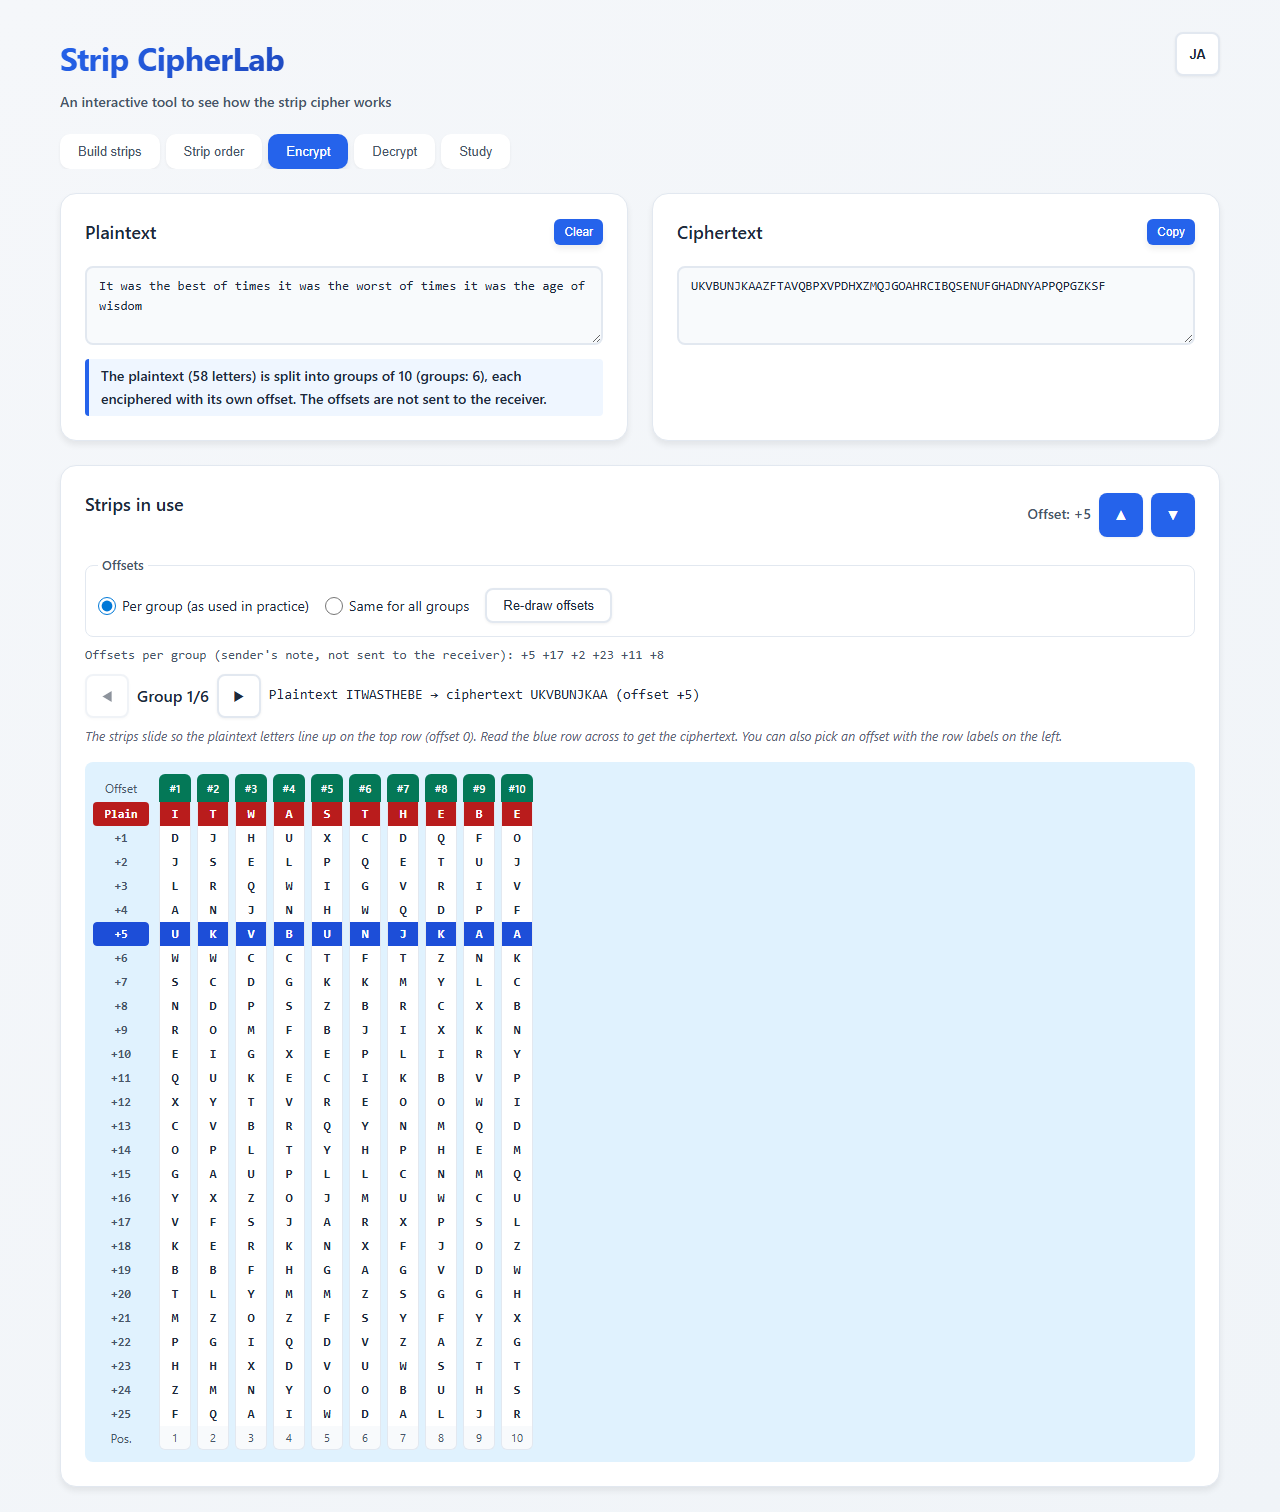
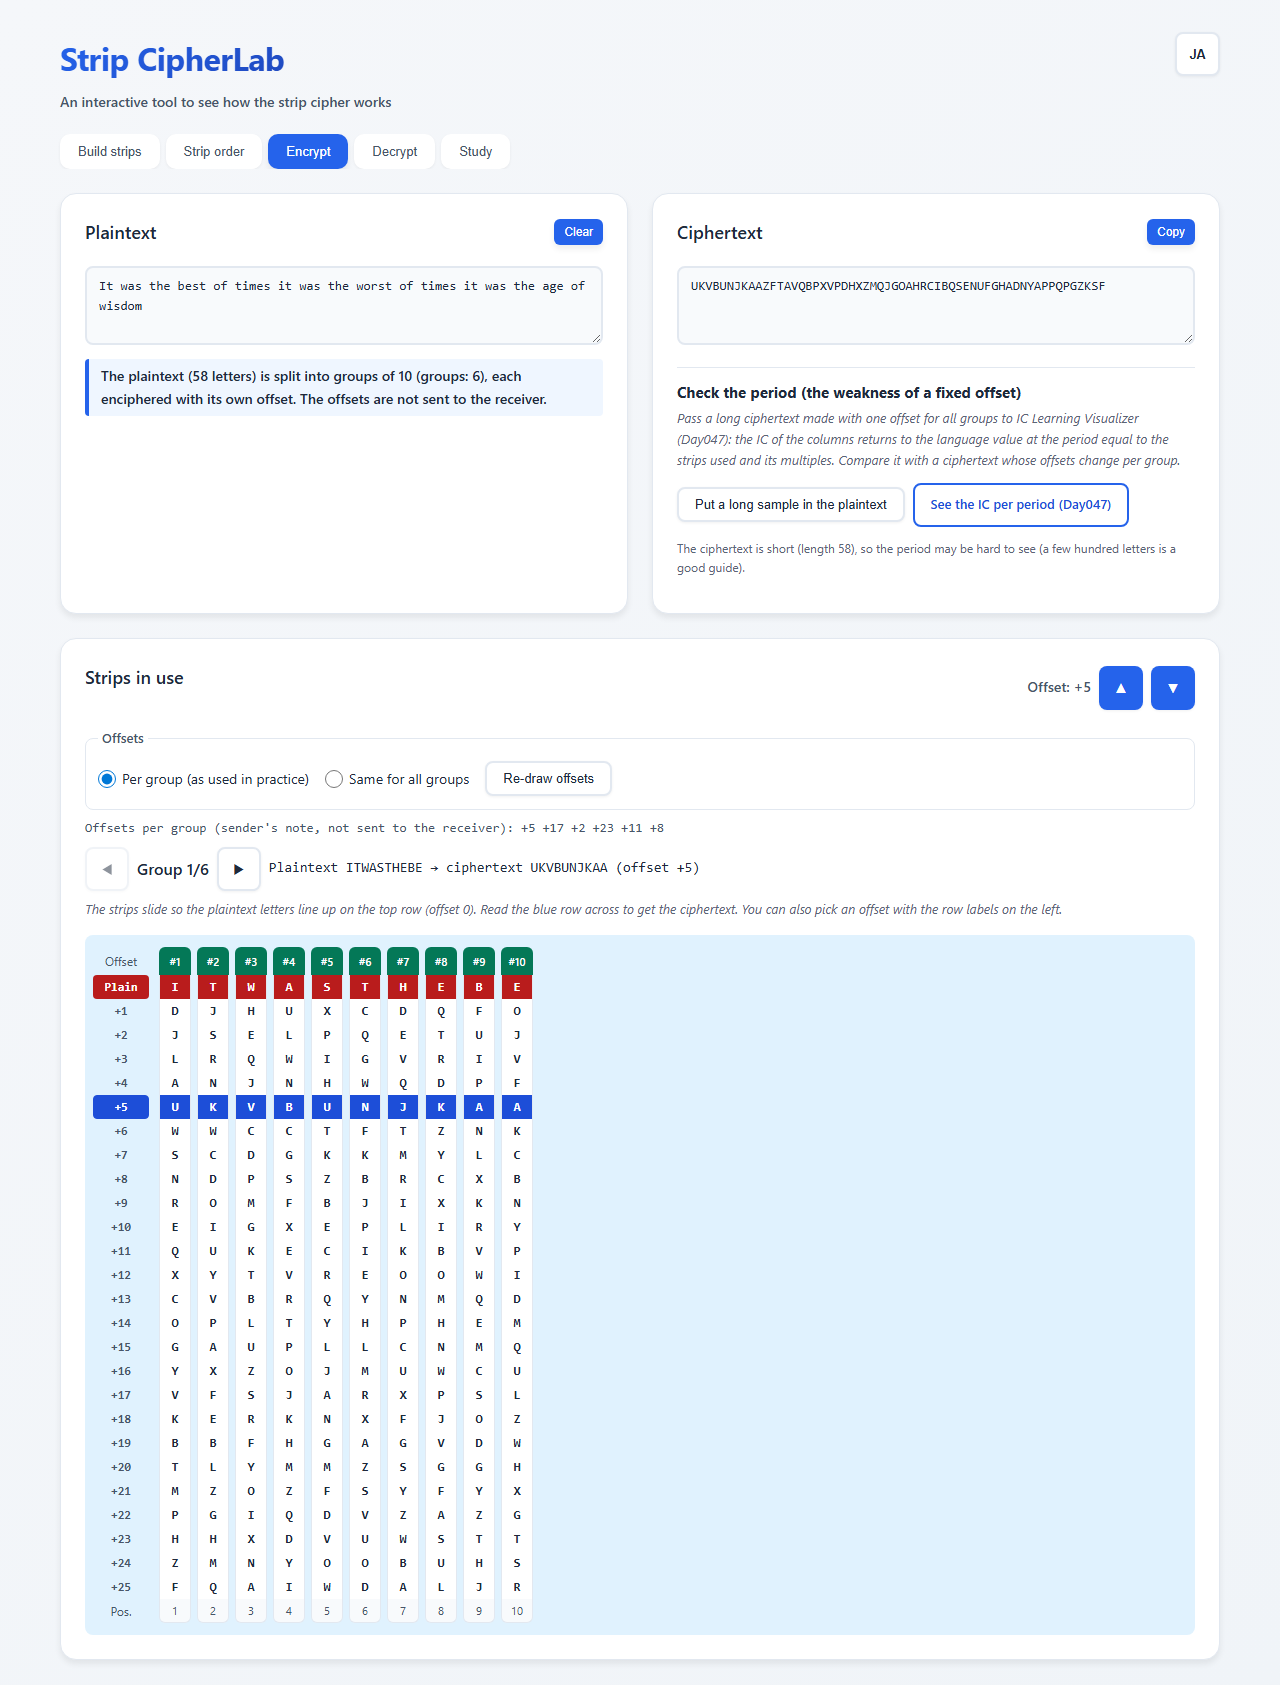
第3弾 段階2: README（日英）に段差を固定したときの弱さの節・スクリーンショット
- 見本の長文・合言葉STRIP・10本・段差+7 の周期ごとのIC（周期10・20は平文と同じ値）と、
  Day047 の候補が「5・10・15」と出ること、群ごとの段差では候補が出ないことを記載
- 表の値と、群ごとの段差でしきい値に届かないことをテストで再計算（57件）

diff --git a/test/readme.test.js b/test/readme.test.js
@@ -231,3 +231,49 @@ test("英語版: 計算例・装着順の例・評価の表を計算部と tools
   assert.equal(rowsF.length, Object.keys(f).length);
   for (const [, r, len, v] of rowsF) assert.equal(v, f[`${r}/${len}`].toFixed(1));
 });
+
+// 周期 k で分けた列の IC の平均（Day047 IC Learning Visualizer と同じ定義。2文字以上の列だけで平均する）
+function periodicIC(text, k) {
+  let sum = 0;
+  let cols = 0;
+  for (let i = 0; i < k; i++) {
+    let col = "";
+    for (let j = i; j < text.length; j += k) col += text[j];
+    if (col.length < 2) continue;
+    const counts = {};
+    for (const ch of col) counts[ch] = (counts[ch] || 0) + 1;
+    sum += Object.values(counts).reduce((a, n) => a + n * (n - 1), 0) / (col.length * (col.length - 1));
+    cols++;
+  }
+  return sum / cols;
+}
+
+test("段差を固定したときの弱さ: 周期ごとのICの表（日英）を見本の長文で再計算する", () => {
+  const script = read("script.js");
+  const sample = Function(`return ${script.match(/const SAMPLE_PARAGRAPH = ([\s\S]*?);\n/)[1]};`)();
+  const plain = C.lettersOnly(sample);
+  assert.equal(plain.length, 475);
+  assert.match(script, /const IC_MAX_PERIOD = 20;/);
+  assert.match(script, /const IC_MAX_TEXT = 10000;/);
+  const strips = C.passphraseStrips("STRIP", 10);
+  const order = C.firstOrder(10);
+  const cipher = C.encrypt(plain, strips, order, 7);
+  for (const [text, re] of [[readme, /^\| (\d+)(?:（分けない）)? \| (0\.\d{4}) \| (0\.\d{4}) \|$/gm],
+    [readmeEn, /^\| (\d+)(?: \(not split\))? \| (0\.\d{4}) \| (0\.\d{4}) \|$/gm]]) {
+    const rows = [...text.matchAll(re)];
+    assert.equal(rows.length, 5);
+    for (const [, k, c, p] of rows) {
+      assert.equal(periodicIC(cipher, Number(k)).toFixed(4), c, `cipher ${k}`);
+      assert.equal(periodicIC(plain, Number(k)).toFixed(4), p, `plain ${k}`);
+    }
+  }
+  // 周期10・20は平文とまったく同じ（列ごとに同じ換字表）
+  for (const k of [10, 20]) assert.equal(periodicIC(cipher, k), periodicIC(plain, k));
+  // 群ごとに段差を変えると、周期2〜20のどれも Day047 のしきい値 0.058 に届かない（決まった種の乱数で5回）
+  let seed = 20261007;
+  const bytes = (n) => Uint8Array.from({ length: n }, () => { seed = (Math.imul(seed, 1103515245) + 12345) >>> 0; return seed >>> 24; });
+  for (let t = 0; t < 5; t++) {
+    const per = C.encrypt(plain, strips, order, C.randomGaps(48, bytes));
+    for (let k = 2; k <= 20; k++) assert.ok(periodicIC(per, k) < 0.058, `trial ${t} period ${k}`);
+  }
+});

diff --git a/README.md b/README.md
@@ -82,6 +82,7 @@ hub: true
 - 暗号化の段差：群ごとに変える（実際の運用）か、全部の群で同じにするかを選べる。群ごとの段差は偏りのない乱数で決め、振り直したり1群ずつ選び直したりできる
 - 復号の候補：群ごとに25の候補の行を、英語らしさの点数の順に並べる。行を押して選ぶか、点数1位をまとめて選ぶ（自動推定）。全部の群で同じ段差なら、全文の点数で選ぶ
 - 群の切り替え：使用本数より長い文は、使用本数ずつの群に分けて1群ずつ窓に出す
+- 周期を確かめる：見本の長文を平文に入れ、暗号文をIC Learning Visualizer（Day047）へ渡して、段差を固定したときに周期が現れるかを見る（使用本数20本・暗号文1万字まで）
 - 座学：仕組みと注意点のまとめ
 - 日英対応：右上のボタンで画面の言語を切り替えられる
 
@@ -178,6 +179,24 @@ hub: true
 
 群が短いほど、偶然に英語らしく見える行が1位になりやすくなります。このツールは、8文字未満の群で注意を出します。自動推定のあとも、前後の群とつなげて読めるかを確かめてください。
 
+### 段差を固定したときの弱さ（Day047で確かめる）
+
+暗号化タブの「周期を確かめる」で、見本の長文（『A Tale of Two Cities』の冒頭の段落、英字475字）を平文に入れ、「周期ごとのICを見る」を押すと、暗号文がIC Learning Visualizer（Day047）の鍵長推定に渡ります。暗号文はURLの`#`より後ろで渡すので、サーバーには送られません。
+
+合言葉STRIPで10本を作り、先頭から並べ、全部の群を段差+7で暗号化した場合、暗号文を周期ごとに分けた列のICの平均は次のとおりです（Day047の表示と同じ値）。
+
+| 周期 | 暗号文 | 平文 |
+|---|---|---|
+| 1（分けない） | 0.0435 | 0.0741 |
+| 5 | 0.0593 | 0.0770 |
+| 10 | 0.0763 | 0.0763 |
+| 15 | 0.0636 | 0.0827 |
+| 20 | 0.0853 | 0.0853 |
+
+周期10と20では、列ごとに同じ換字表を使うので、列のICが平文とまったく同じ値に戻ります（換字では文字の出現回数の組み合わせが変わらないため）。Day047の鍵長の候補は「5・10・15」と出ます。5の列は2本のストリップの換字表が混ざるので平文より低くなりますが、Day047のしきい値（0.058）を超えたため、小さい順で先に並びます。棒グラフでは、10と20がいちばん高くなります。
+
+群ごとに段差を変えた暗号文では、同じ列でも群ごとに換字表が変わるので、周期2〜20のどれもしきい値に届かず、Day047は鍵長の候補を出しません。使用本数が20本を超える場合と、暗号文が1万字を超える場合は、Day047では調べられないので、ボタンを押せなくなります。
+
 ### ストリップの並べ順（鍵語による一例：アルファベット順の割当）
 
 鍵語の各文字に、アルファベット順（A→Z）で番号を振る方式です。同じ文字が複数回出る場合は、左から現れる順に若い番号を与えます。
@@ -249,7 +268,7 @@ hub: true
 - セキュリティ研修：「鍵の一部（段差）を固定すると何に退化するか」「鍵の配送」「乱数の質」を、古典暗号の題材で議論する。合言葉の生成は再現できる一方で、合言葉を推測されるとストリップも再現される、という鍵の扱いの例にもなる
 - 暗号解読の練習：仲間とストリップと装着順だけを共有し、段差を知らせずに暗号文を送り合う
 - 歴史の調べもの：Kahn『The Codebreakers』やTICOMの報告を読みながら、記述にある手順を手元で再現する
-- ほかのツールとの組み合わせ：段差を固定した長い暗号文を[IC Learning Visualizer](https://ipusiron.github.io/ic-learning-visualizer/)（Day047）に貼ると、周期ごとのICで使用本数の周期が見える。周期のある多表式換字として[Vigenere Cipher Tool](https://ipusiron.github.io/vigenere-cipher-tool/)（Day017）と比べたり、同じアルファベット順の割当を使う[Columnar CipherLab](https://ipusiron.github.io/columnar-cipherlab/)（Day043）で鍵語の番号を見比べたりできる
+- ほかのツールとの組み合わせ：暗号化タブの「周期ごとのICを見る」で、段差を固定した長い暗号文を[IC Learning Visualizer](https://ipusiron.github.io/ic-learning-visualizer/)（Day047）へ渡すと、周期ごとのICで使用本数の周期が見える。周期のある多表式換字として[Vigenere Cipher Tool](https://ipusiron.github.io/vigenere-cipher-tool/)（Day017）と比べたり、同じアルファベット順の割当を使う[Columnar CipherLab](https://ipusiron.github.io/columnar-cipherlab/)（Day043）で鍵語の番号を見比べたりできる
 
 ストリップ暗号は古典暗号であり、実際の通信の秘匿には使えません。作者は悪用を勧めません。
 

diff --git a/README.en.md b/README.en.md
@@ -46,6 +46,7 @@ Try it directly in your browser.
 - Offsets when encrypting: change them per group (as used in practice) or use one offset for all groups. Offsets per group are drawn with unbiased random numbers and can be re-drawn or chosen group by group
 - Candidates when decrypting: the 25 candidate rows of each group are ranked by an English-likeness score. Click a row to select it, or pick the top score for all groups at once (auto-pick). With one offset for all groups, the whole text is scored instead
 - Groups: text longer than the number of strips used is split into groups of that length, shown one group at a time
+- Check the period: put a long sample in the plaintext and pass the ciphertext to IC Learning Visualizer (Day047) to see whether a period appears when the offset is fixed (up to 20 strips used and 10,000 letters of ciphertext)
 - Study: a summary of how it works and what to watch for
 - English and Japanese: switch the screen language with the button at the top right
 
@@ -142,6 +143,24 @@ With one offset for all groups, choosing by the score of the whole text:
 
 The shorter the group, the more often a row that looks like English by chance ranks first. The tool shows a note for groups shorter than 8 letters. After the auto-pick, also check that each group reads well together with its neighbors.
 
+### The weakness of a fixed offset (checked with Day047)
+
+Under "Check the period" on the Encrypt tab, put the long sample (the opening paragraph of *A Tale of Two Cities*, 475 letters) in the plaintext and click "See the IC per period"; the ciphertext is passed to the key-length estimation of IC Learning Visualizer (Day047). The ciphertext travels after the `#` of the URL, so it is not sent to the server.
+
+With ten strips made from the passphrase STRIP, placed from the first, and every group enciphered at offset +7, the average IC of the columns per period is as follows (the same values that Day047 shows).
+
+| Period | Ciphertext | Plaintext |
+|---|---|---|
+| 1 (not split) | 0.0435 | 0.0741 |
+| 5 | 0.0593 | 0.0770 |
+| 10 | 0.0763 | 0.0763 |
+| 15 | 0.0636 | 0.0827 |
+| 20 | 0.0853 | 0.0853 |
+
+At periods 10 and 20, each column uses the same substitution table, so the IC of the columns returns to exactly the plaintext value (substitution does not change the letter counts). Day047 lists the key-length candidates as "5, 10, 15". The columns at period 5 mix the tables of two strips and are lower than the plaintext, but they pass Day047's threshold (0.058), so 5 comes first in increasing order. In the bar chart, 10 and 20 are the highest.
+
+In a ciphertext whose offsets change per group, the table of the same column changes from group to group, so no period from 2 to 20 reaches the threshold and Day047 gives no key-length candidate. If more than 20 strips are used, or the ciphertext is longer than 10,000 letters, Day047 cannot check it, so the button is disabled.
+
 ### Strip order (one keyword method: alphabetical numbering)
 
 Each letter of the keyword is numbered in alphabetical order (A→Z). When a letter appears more than once, the occurrences are numbered from the left.
@@ -213,7 +232,7 @@ In this tool, the number of letters in the keyword becomes the number of strips 
 - Security training: discuss "what fixing part of the key (the offset) turns the cipher into", "key distribution", and "the quality of random numbers" with a classical cipher. Strips from a passphrase are an example of key handling: they can be rebuilt, but anyone who guesses the passphrase can rebuild them too
 - Codebreaking practice: share only the strips and the strip order with friends, and send ciphertexts to each other without telling the offsets
 - Historical reading: reproduce the procedures described in Kahn's *The Codebreakers* or the TICOM reports at hand
-- Combining with other tools: paste a long ciphertext made with one offset into [IC Learning Visualizer](https://ipusiron.github.io/ic-learning-visualizer/) (Day047) to see the period equal to the number of strips used in the IC per period. You can compare it, as a periodic polyalphabetic substitution, with [Vigenere Cipher Tool](https://ipusiron.github.io/vigenere-cipher-tool/) (Day017), or compare keyword numbers with [Columnar CipherLab](https://ipusiron.github.io/columnar-cipherlab/) (Day043), which uses the same alphabetical numbering
+- Combining with other tools: with "See the IC per period" on the Encrypt tab, pass a long ciphertext made with one offset to [IC Learning Visualizer](https://ipusiron.github.io/ic-learning-visualizer/) (Day047) to see the period equal to the number of strips used in the IC per period. You can compare it, as a periodic polyalphabetic substitution, with [Vigenere Cipher Tool](https://ipusiron.github.io/vigenere-cipher-tool/) (Day017), or compare keyword numbers with [Columnar CipherLab](https://ipusiron.github.io/columnar-cipherlab/) (Day043), which uses the same alphabetical numbering
 
 The strip cipher is a classical cipher and cannot protect real communications. The author does not encourage misuse.
 
